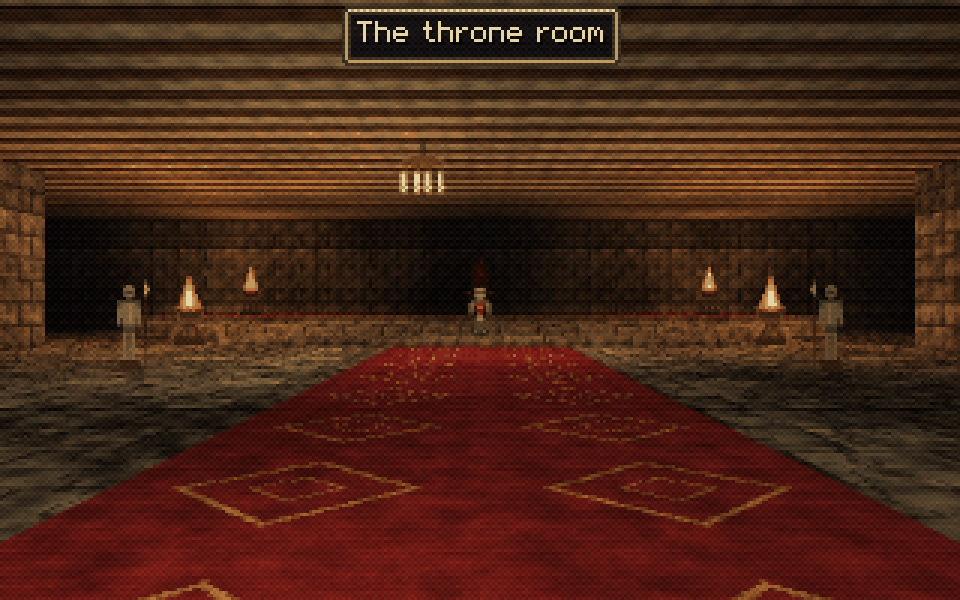
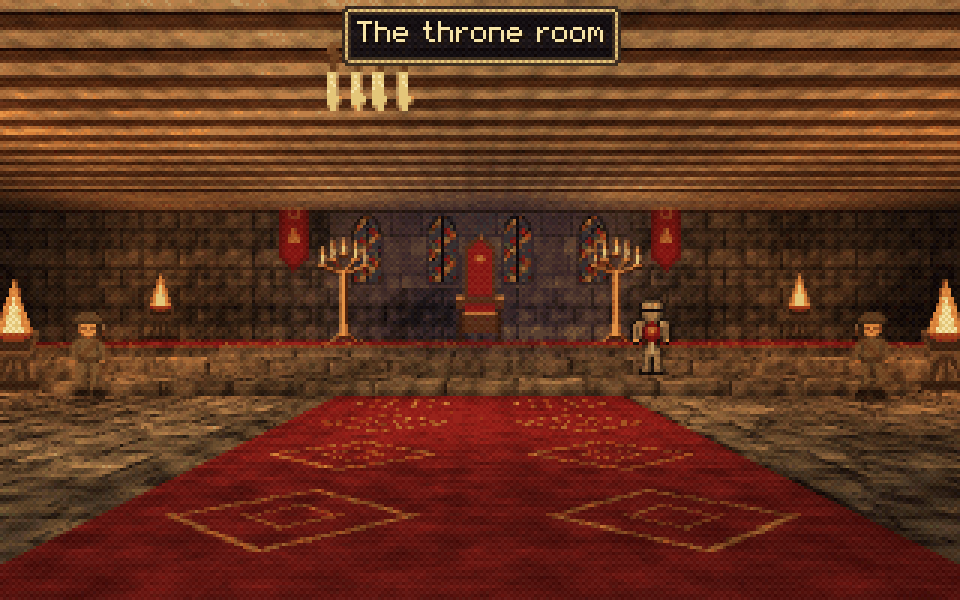
Fill the castle's throne hall
The throne hall was long and bare and its throne small and far. The main shot now stands
closer, and the dais has what it was missing: a larger throne under a great window of stained
glass in the back wall (with its coloured light), red banners either side, a candelabra at each
corner, guards at the foot of the steps, and the knight moved to one side of the steps so he no
longer stands in front of the throne. Gallery: castle_throne; castle_keep now rated good.

diff --git a/examples/castle_keep.py b/examples/castle_keep.py
@@ -20,6 +20,8 @@ g.rect(7, 2, 16, 4, 'D')                              # the dais...
 g.rect(8, 5, 15, 5, 'E')                              # ...and its two steps
 g.rect(9, 6, 14, 6, 'E')
 g.rect(11, 7, 12, 19, 'r')                            # carpet up the aisle
+for x in (10, 11, 12, 13):
+    g.put(x, 1, 'G')                                  # a great window of stained glass behind the throne
 g.put(11, 20, 'P'); g.put(12, 20, 'P')                # portcullis down to the cells
 g.rect(10, 21, 13, 32, 'f')                           # dungeon corridor
 for y0 in (23, 28):                                   # two cells either side, behind bars
@@ -44,6 +46,7 @@ s = scene(
     legend={
         '#': {'wall': 'castle', 'h': 2.0},
         'W': {'wall': ['castle', 'stained_glass'], 'h': 2.0},
+        'G': {'wall': ['castle', 'stained_glass'], 'h': 2.0},
         'C': {'wall': 'castle', 'h': 2.0},
         '.': {'floor': 'flagstone', 'ceil': 'beams'},
         'r': {'floor': 'carpet', 'ceil': 'beams'},
@@ -78,10 +81,17 @@ s = scene(
         {'x': 5.8, 'y': 23.6, 'z': 0.3, 'radius': 3.6, 'color': [1.0, 0.7, 0.4], 'intensity': 1.2},
         {'x': 8.0, 'y': 2.6, 'z': 0.9, 'radius': 5.0, 'color': fire, 'intensity': 1.2},
         {'x': 16.0, 'y': 2.6, 'z': 0.9, 'radius': 5.0, 'color': fire, 'intensity': 1.2},
+        {'x': 12.0, 'y': 2.4, 'z': 1.6, 'radius': 4.5, 'color': [0.7, 0.5, 1.0], 'intensity': 0.8},   # the window's colour
+        {'x': 10.4, 'y': 3.4, 'z': 1.4, 'radius': 3.5, 'color': [1.0, 0.72, 0.4], 'intensity': 0.9},  # the candelabras
+        {'x': 13.6, 'y': 3.4, 'z': 1.4, 'radius': 3.5, 'color': [1.0, 0.72, 0.4], 'intensity': 0.9},
     ],
     sprites=[
-        {'x': 12.0, 'y': 2.9, 'type': 'throne'},                                   # on the dais
-        {'id': 'knight', 'x': 12.0, 'y': 6.55, 'type': 'knight'},                   # on the lower step
+        {'x': 12.0, 'y': 2.9, 'type': 'throne', 'scale': 1.3},                     # on the dais
+        {'x': 9.6, 'y': 2.3, 'type': 'banner', 'z': 0.9, 'scale': 1.1},              # banners either side of it
+        {'x': 14.4, 'y': 2.3, 'type': 'banner', 'z': 0.9, 'scale': 1.1},
+        {'x': 10.4, 'y': 3.2, 'type': 'candelabra'}, {'x': 13.6, 'y': 3.2, 'type': 'candelabra'},
+        {'x': 9.4, 'y': 7.3, 'type': 'soldier'}, {'x': 14.6, 'y': 7.3, 'type': 'soldier', 'flip': True},   # the guard
+        {'id': 'knight', 'x': 13.3, 'y': 6.55, 'type': 'knight'},                   # on the lower step, to one side
         {'x': 8.5, 'y': 6.6, 'type': 'brazier'}, {'x': 15.5, 'y': 6.6, 'type': 'brazier'},
         {'x': 11.5, 'y': 9.0, 'type': 'chandelier', 'z': 1.45},
         {'x': 11.5, 'y': 15.0, 'type': 'chandelier', 'z': 1.45},
@@ -112,12 +122,12 @@ s = scene(
         {'tex': 'cobweb', 'surface': 'wall', 'cell': [8, 22], 'face': 'south', 'u': 0.5, 'z': 1.6, 'size': 0.8},
         {'tex': 'crack', 'surface': 'floor', 'x': 6.5, 'y': 17.0, 'size': 1.6, 'opacity': 0.6},
     ],
-    camera={'x': 12.0, 'y': 15.5, 'look_at': [12.0, 3.0, 0.55], 'fov': 66},
+    camera={'x': 12.0, 'y': 12.6, 'look_at': [12.0, 3.0, 0.8], 'fov': 62},
     shots=[
-        {'x': 12.0, 'y': 15.5, 'look_at': [12.0, 3.0, 0.55], 'fov': 66,
+        {'x': 12.0, 'y': 12.6, 'look_at': [12.0, 3.0, 0.8], 'fov': 62,
          'overlays': [{'type': 'caption', 'text': 'The throne room', 'at': 'top', 'box': True}]},
         {'x': 3.6, 'y': 18.4, 'look_at': [1.6, 5.0, 1.15], 'fov': 70},
-        {'x': 12.6, 'y': 10.2, 'look_at': 'knight', 'fov': 62,
+        {'x': 12.2, 'y': 10.0, 'look_at': 'knight', 'fov': 62,
          'overlays': [{'type': 'bubble', 'anchor': 'knight', 'name': 'Knight',
                        'text': 'The king sees no one tonight. State your business, or leave.'}]},
         {'x': 12.0, 'y': 17.0, 'angle': 90, 'fov': 70,

diff --git a/docs/ASSETS.md b/docs/ASSETS.md
@@ -38,8 +38,8 @@ The smoke test fails while this file is out of date. Sheets show textures tiled 
 | GUI widgets | 16 | 16 | 0 | 0 | 0 |
 | Post presets | 20 | 20 | 0 | 0 | 0 |
 | Palettes | 9 | 9 | 0 | 0 | 0 |
-| Example scenes | 47 | 41 | 6 | 0 | 0 |
-| **all** | **611** | **585** | **26** | **0** | **0** |
+| Example scenes | 47 | 42 | 5 | 0 | 0 |
+| **all** | **611** | **586** | **25** | **0** | **0** |
 <!-- /summary -->
 
 ## Pass plan
@@ -313,7 +313,7 @@ Camera-facing sprites. "tall" is the default height in world units (a wall is 1)
 | `ceiling_lamp` | good | 0.3 tall, glows, no shadow | bunker_lab, sewer_tunnels |  |
 | `chandelier` | good | 0.45 tall, glows, no shadow | castle_keep, claude_study, haunted_house |  |
 | `cobweb` | good | 0.9 tall, no shadow | haunted_house | Drawn with the toolkit in haunted.py: threads radiating from a corner with sagging spiral rings, a broken strand; translucent. |
-| `candelabra` | good | 1.2 tall, glows, aura | haunted_house | Drawn with the toolkit in haunted.py: a turned brass stem on a tripod foot, five curved arms with candles burning, wax run down them; aura. |
+| `candelabra` | good | 1.2 tall, glows, aura | castle_keep, haunted_house | Drawn with the toolkit in haunted.py: a turned brass stem on a tripod foot, five curved arms with candles burning, wax run down them; aura. |
 | `portrait` | good | 0.75 tall, glows, no shadow | haunted_house | Drawn with the toolkit in haunted.py: an oval beaded gilt frame round a pale, unsmiling face, black coat and white collar; the eyes glow faintly. |
 | `grandfather_clock` | good | 1.6 tall | haunted_house | Drawn with the toolkit in haunted.py: a mahogany case: hood with a broken pediment and finial, a dial near midnight, a glass door on the pendulum. |
 | `balustrade` | good | 0.5 tall | haunted_house | Drawn with the toolkit in haunted.py: turned balusters every eighth of a unit between handrail and base rail, newel posts; three units a card. |
@@ -880,7 +880,7 @@ The environments, judged on their gallery images and shots.
 
 | scene | status | shots | gallery | notes |
 |---|---|---|---|---|
-| `castle_keep` | polish | 5 | castle_throne, castle_gate | The throne hall is long and bare, and the throne small and far. |
+| `castle_keep` | good | 5 | castle_throne, castle_gate | The throne hall closer: a great stained-glass window, banners and candelabras behind a larger throne, guards at the steps, the knight to one side. |
 | `cathedral_ruin` | polish | 3 | cathedral_beam, cathedral_pilgrim | The hole in the roof reads as a flat white quad; the nave is bare. |
 | `crystal_cave` | good | 3 | cave_beast |  |
 
@@ -926,6 +926,7 @@ The environments, judged on their gallery images and shots.
 ## Pass log
 
 - **2026-10-19, pass 0.** First full review of every asset, on review sheets and in the gallery. This file and `docs/asset_review.py` were added.
+- **2026-10-19, the throne hall.** castle_keep: the camera closer, a larger throne under a great stained-glass window, banners and candelabras on the dais, guards at the foot of the steps, the knight to one side.
 - **2026-10-19, the stone circle.** `menhir`, `menhir_top` and a `stone_cap` prop: the misty moor's stones get varied heights, weathered faces and slanted, chipped tops instead of flat-topped blocks.
 - **2026-10-19, polish pass 4.** `alien_rock` (faceted, glowing in its crevices), `alien_ground`, `dry_grass` (fewer, larger clumps), and the `jaguar` redrawn prowling side on in rosettes.
 - **2026-10-19, the Moon.** An `earth` sky object; `scripts/moon.py`: `regolith`, `rover_tracks`, `dome`, `hab_module`, `solar_array`, `rover`. `examples/moon_base.py` with four gallery shots.
